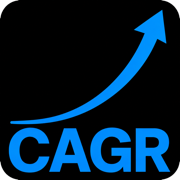
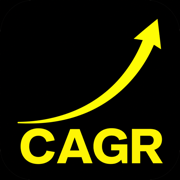
Cambiar el icono a la version amarilla y anotar dos pendientes
El icono pasa de azul a amarillo sobre negro, con mas contraste. Se regeneran
los cuatro tamanos desde el original y se actualiza el favicon incrustado en el
HTML, que queda identico al icon-32.png.

Se anotan en el CONTEXTO dos tareas planteadas y postergadas: mostrar los tramos
del retiro sostenible cuando hay ajustes cargados, y aclarar el rotulo del campo
de ajustes, que reemplaza el retiro anterior en vez de sumarse.

diff --git a/index.html b/index.html
@@ -5,7 +5,7 @@
 <meta name="viewport" content="width=device-width, initial-scale=1, viewport-fit=cover">
 <meta name="color-scheme" content="light">
 <title>Simulador de capital y retiros</title>
[2 lines of base64/hex data omitted]
 <link rel="apple-touch-icon" href="icon-180.png">
 <link rel="manifest" href="manifest.webmanifest">
 <meta name="apple-mobile-web-app-capable" content="yes">

diff --git a/CONTEXTO.md b/CONTEXTO.md
@@ -202,6 +202,8 @@ Se guarda **solo el resumen**, no la simulación entera: alcanza para comparar y
 
 ## 11. Ideas pendientes (ninguna aprobada)
 
+- **Mostrar los tramos del retiro sostenible cuando hay ajustes cargados.** Planteado el 2 de agosto de 2026 y postergado. `escala` multiplica el retiro base **y todos los ajustes**, así que el sostenible escala la forma del plan completa. Con un plan de tres tramos —50.000 desde el año 2, 100.000 desde el 6, 90.000 desde el 10— y un factor histórico de 1,28, la pantalla muestra solo `$63.982`, cuando el plan sostenible real es 63.982 → 127.964 → 115.168. Leído aislado, ese número se interpreta como "puede retirar 63.982 por semestre durante todo el horizonte", que es falso. La solución acordada: una línea con los tres tramos debajo del sostenible, visible **solo si hay ajustes cargados**.
+- **Aclarar el rótulo del campo de ajustes.** Hoy dice "Nuevo retiro USD" y la sección se llama "Ajustes puntuales del retiro". Un ajuste **reemplaza** el retiro anterior y reinicia la indexación desde esa fecha; no se suma al anterior. La palabra "ajuste" invita a leerlo como monto adicional. Candidatos: cambiar el rótulo a "Pasa a retirar USD", o agregar una línea de ayuda con "reemplaza el retiro anterior; para sumar, cargue el monto total".
 - Pasar el escenario por la querystring, para compartir un caso por link.
 - Web Worker para el cálculo, si crece la cantidad de corridas.
 - Exportar CSV de la tabla semestral.
